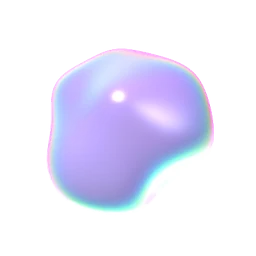
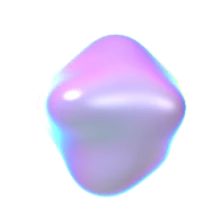
Мося: 24 кадра, плавное перетекание + колыхание; «Поделиться» — карточка как в прототипе; событие: «Идут» выше, «Маршрут/Скопировать» над картой, карта крупнее, без «Точка на карте»; профиль: цветные иконки интересов, белая «Позвать», фото в оригинале, без цифры; «Быстрый доступ» — новая иконка
Claude-Session: https://claude.ai/code/session_013QFP65mVRgYiznxHFkn3DH

Changed region(s): [[0.1562, 0.125, 0.8438, 0.9062]]

diff --git a/app/(app)/events/[id]/page.tsx b/app/(app)/events/[id]/page.tsx
@@ -76,6 +76,20 @@ interface EventDetailsPageProps {
 }
 
 
+/** «Точка на карте» — служебное имя метки, людям его не показываем. */
+function realPlace(n: string | null | undefined): string | null {
+  const t = (n ?? "").trim();
+  return t && t !== "Точка на карте" ? t : null;
+}
+/** Название + адрес без повторов («Максимилианс, …, Максимилианс» → один раз). */
+function placeLine(name: string | null | undefined, address: string | null | undefined): string {
+  const n = realPlace(name);
+  const a = (address ?? "").trim();
+  if (!n) return a;
+  if (!a) return n;
+  return a.toLowerCase().includes(n.toLowerCase()) ? a : `${n}, ${a}`;
+}
+
 export default function EventDetailsPage({ params }: EventDetailsPageProps) {
   const { id: eventId } = params;
   const router = useRouter();
@@ -657,83 +671,6 @@ export default function EventDetailsPage({ params }: EventDetailsPageProps) {
               </Link>
             ))}
 
-          {event.description && (
-            <div className="k-blk k-gd">
-              <b className="k-bh">{event.isBusiness ? "О событии" : "О встрече"}</b>
-              <p style={{ whiteSpace: "pre-line" }}>{event.description}</p>
-            </div>
-          )}
-
-          <div className="k-blk k-gd" style={{ padding: 0, overflow: "hidden" }}>
-            {hid ? (
-              <div style={{ padding: "14px 16px" }}>
-                <b className="k-bh">Место откроется после одобрения</b>
-                <p style={{ margin: "2px 0 0" }}>Организатор и точный адрес видны только принятым участникам</p>
-              </div>
-            ) : (
-              <>
-                <div style={{ padding: "14px 16px 10px" }}>
-                  <b className="k-bh">Место</b>
-                  <p style={{ margin: "2px 0 0" }}>
-                    {[event.placeName, event.address].filter(Boolean).join(", ") || "Место уточняется"}
-                  </p>
-                </div>
-                <div className="k-mapbox" style={{ display: "block", width: "100%", margin: 0, borderRadius: 0, height: 170, position: "relative" }}>
-                  {event.latitude != null && event.longitude != null ? (
-                    <EventPlaceMap
-                      fill
-                      latitude={event.latitude}
-                      longitude={event.longitude}
-                      markerSrc={markerIconFor({ isBusiness: event.isBusiness, category: event.category })}
-                      placeName={event.placeName}
-                      fallbackSrc={icon}
-                      markerEvent={{
-                        id: event.id,
-                        title: event.title,
-                        eventDate: event.eventDate,
-                        eventTime: event.eventTime,
-                        latitude: event.latitude,
-                        longitude: event.longitude,
-                        placeName: event.placeName,
-                        address: event.address,
-                        seatsLeft: event.seatsTotal - event.seatsTaken,
-                        category: event.category,
-                        isBusiness: event.isBusiness,
-                        markerPhoto: event.isBusiness
-                          ? event.photoUrl ?? event.organizer?.avatarUrl ?? "/brand/covers/business.webp"
-                          : event.organizer?.avatarUrl ?? null,
-                      }}
-                      onOpen={() => router.push(`/map?${event.isBusiness ? "business=only&" : ""}focus=${event.id}`)}
-                    />
-                  ) : (
-                    <MiniMap />
-                  )}
-                </div>
-                <span className="k-mapact">
-                    {event.latitude != null && event.longitude != null && (
-                      <button className="k-chip k-gw k-pr" onClick={() => openRoute(event.latitude!, event.longitude!)}>
-                        <KI n="map" />
-                        Маршрут
-                      </button>
-                    )}
-                    {event.address && (
-                      <button
-                        className="k-chip k-gw k-pr"
-                        onClick={() =>
-                          navigator.clipboard?.writeText(`${event.placeName ? event.placeName + ", " : ""}${event.address}`).then(
-                            () => flash("Адрес скопирован"),
-                            () => {}
-                          )
-                        }
-                      >
-                        Скопировать адрес
-                      </button>
-                    )}
-                </span>
-              </>
-            )}
-          </div>
-
           <div className="k-blk k-gd">
             <div className="k-bh2">
               <b className="k-bh">
@@ -777,6 +714,83 @@ export default function EventDetailsPage({ params }: EventDetailsPageProps) {
                 </button>
               )}
             </div>
+          </div>
+
+          {event.description && (
+            <div className="k-blk k-gd">
+              <b className="k-bh">{event.isBusiness ? "О событии" : "О встрече"}</b>
+              <p style={{ whiteSpace: "pre-line" }}>{event.description}</p>
+            </div>
+          )}
+
+          <div className="k-blk k-gd" style={{ padding: 0, overflow: "hidden" }}>
+            {hid ? (
+              <div style={{ padding: "14px 16px" }}>
+                <b className="k-bh">Место откроется после одобрения</b>
+                <p style={{ margin: "2px 0 0" }}>Организатор и точный адрес видны только принятым участникам</p>
+              </div>
+            ) : (
+              <>
+                <div style={{ padding: "14px 16px 10px" }}>
+                  <b className="k-bh">Место</b>
+                  <p style={{ margin: "2px 0 0" }}>
+                    {placeLine(event.placeName, event.address) || "Место уточняется"}
+                  </p>
+                </div>
+                <span className="k-mapact">
+                    {event.latitude != null && event.longitude != null && (
+                      <button className="k-chip k-gw k-pr" onClick={() => openRoute(event.latitude!, event.longitude!)}>
+                        <KI n="map" />
+                        Маршрут
+                      </button>
+                    )}
+                    {event.address && (
+                      <button
+                        className="k-chip k-gw k-pr"
+                        onClick={() =>
+                          navigator.clipboard?.writeText(placeLine(event.placeName, event.address)).then(
+                            () => flash("Адрес скопирован"),
+                            () => {}
+                          )
+                        }
+                      >
+                        Скопировать адрес
+                      </button>
+                    )}
+                </span>
+                <div className="k-mapbox" style={{ display: "block", width: "100%", margin: 0, borderRadius: 0, height: 240, position: "relative" }}>
+                  {event.latitude != null && event.longitude != null ? (
+                    <EventPlaceMap
+                      fill
+                      latitude={event.latitude}
+                      longitude={event.longitude}
+                      markerSrc={markerIconFor({ isBusiness: event.isBusiness, category: event.category })}
+                      placeName={event.placeName}
+                      fallbackSrc={icon}
+                      markerEvent={{
+                        id: event.id,
+                        title: event.title,
+                        eventDate: event.eventDate,
+                        eventTime: event.eventTime,
+                        latitude: event.latitude,
+                        longitude: event.longitude,
+                        placeName: event.placeName,
+                        address: event.address,
+                        seatsLeft: event.seatsTotal - event.seatsTaken,
+                        category: event.category,
+                        isBusiness: event.isBusiness,
+                        markerPhoto: event.isBusiness
+                          ? event.photoUrl ?? event.organizer?.avatarUrl ?? "/brand/covers/business.webp"
+                          : event.organizer?.avatarUrl ?? null,
+                      }}
+                      onOpen={() => router.push(`/map?${event.isBusiness ? "business=only&" : ""}focus=${event.id}`)}
+                    />
+                  ) : (
+                    <MiniMap />
+                  )}
+                </div>
+              </>
+            )}
           </div>
 
           {invitePending && (
@@ -1045,7 +1059,7 @@ export default function EventDetailsPage({ params }: EventDetailsPageProps) {
           }}
         />
       )}
-      <ShareSheet open={shareOpen} onClose={() => setShareOpen(false)} eventId={event.id} title={event.title} when={shareWhen} version={`${event.photoUrl ?? ""}|${event.placeName ?? ""}|${event.seatsTaken}`} photo={event.photoUrl} chip={`${catName} · ${shareWhen}`} meta={[event.isAnonymous ? null : event.placeName, `${event.seatsTaken} из ${event.seatsTotal}`].filter(Boolean).join(" · ")} />
+      <ShareSheet open={shareOpen} onClose={() => setShareOpen(false)} eventId={event.id} title={event.title} when={shareWhen} version={`${event.photoUrl ?? ""}|${event.placeName ?? ""}|${event.seatsTaken}`} photo={event.photoUrl} chip={`${catName} · ${shareWhen}`} meta={[event.isAnonymous ? null : realPlace(event.placeName), `${event.seatsTaken} из ${event.seatsTotal}`].filter(Boolean).join(" · ")} />
 
       <Sheet open={anonOpen} onClose={() => setAnonOpen(false)}>
         <div className="anonbox">

diff --git a/app/k26-app.css b/app/k26-app.css
@@ -251,7 +251,7 @@
 .P .pr.pr2 .sheet2{min-height:0!important}
 /* Профиль человека: фото крупнее, плашка «О себе» начинается ниже; иконки интересов на тёмном — светлые. */
 .P .pr.pr2:not(.deck) .gal{height:min(82vh,700px)!important}
-.P .pr.pr2 .sheet2 .itag img{filter:invert(1) brightness(2);opacity:.9}
+.P .pr.pr2 .sheet2 .itag img{filter:none;opacity:1;background:#fff;border-radius:50%;padding:3px;box-sizing:border-box}
 /* 06.11: карта в создании видна сразу; ⤢ — на весь экран (поверх всего, через body) */
 .K .k-mapprev{position:relative;overflow:hidden;border-radius:24px;padding:0}
 .K .k-mapprev .rounded-card{border-radius:24px}
@@ -265,9 +265,23 @@
 .K .k-ev .k-evfade{position:absolute;left:0;right:0;bottom:0;height:150px;z-index:29;pointer-events:none;background:linear-gradient(180deg,rgba(23,20,31,0) 0%,rgba(23,20,31,.9) 50%,#17141F 80%)}
 /* 06.11: живой Мося без рывков — кадры перетекают через opacity (видеокарта) */
 .k-crl{overflow:visible}
-.k-crl>img{position:absolute;inset:0;width:100%;height:100%;object-fit:contain;display:block;opacity:0;will-change:opacity;animation:k-mf 6s linear infinite;pointer-events:none}
+.k-crl>img{position:absolute;inset:0;width:100%;height:100%;object-fit:contain;display:block;opacity:0;will-change:opacity;animation:k-mf 12s linear infinite;pointer-events:none}
 .k-crl>img.k-crl0{opacity:1;animation:none}
 .k-crl>img.k-crlz{animation-name:k-mfz}
-@keyframes k-mf{0%{opacity:0}8.333%{opacity:1}16.66%{opacity:1}16.67%{opacity:0}100%{opacity:0}}
-@keyframes k-mfz{0%{opacity:0}8.333%{opacity:1}16.66%{opacity:0}100%{opacity:0}}
+@keyframes k-mf{0%{opacity:0}4.1667%{opacity:1}8.33%{opacity:1}8.34%{opacity:0}100%{opacity:0}}
+@keyframes k-mfz{0%{opacity:0}4.1667%{opacity:1}8.333%{opacity:0}100%{opacity:0}}
 @media (prefers-reduced-motion: reduce){.k-crl>img{animation:none}}
+/* 06.11: на странице события «Маршрут / Скопировать» над картой */
+.K .k-ev .k-mapact{padding:0 12px 12px}
+/* 06.11: карточка «Поделиться» как в прототипе — плашка в одну строку, название по длине, текст на фото читается */
+.K .k-story .k-schip{max-width:calc(100% - 28px);white-space:nowrap;overflow:hidden;text-overflow:ellipsis;-webkit-backdrop-filter:none;backdrop-filter:none;background:rgba(23,20,31,.35)}
+.K .k-story::after{background:linear-gradient(180deg,rgba(0,0,0,.45),rgba(0,0,0,.1) 26%,rgba(10,8,20,.55) 52%,rgba(10,8,20,.92))}
+.K .k-story .k-stt{max-height:96px;overflow:hidden}
+.K .k-story .k-stt.k-stt2{font-size:21px}
+.K .k-story .k-stt.k-stt3{font-size:17px;line-height:1.15!important;letter-spacing:-.01em}
+.K .k-story .k-sme{white-space:nowrap;overflow:hidden;text-overflow:ellipsis}
+.k-crl{animation:k-wob 4.5s ease-in-out infinite;transform-origin:50% 62%;will-change:transform}
+@keyframes k-wob{0%,100%{transform:scale(1,1) rotate(0)}25%{transform:scale(1.025,.975) rotate(-1.5deg)}50%{transform:scale(.985,1.02) rotate(.8deg)}75%{transform:scale(1.015,.985) rotate(1.4deg)}}
+@media (prefers-reduced-motion: reduce){.k-crl{animation:none}}
+.P .nav26 .k-crl{animation:k-wob 4.5s ease-in-out infinite!important}
+.P .pr .pinv.btn{background:#fff!important;color:#17141F!important;box-shadow:0 10px 26px rgba(0,0,0,.25)}

diff --git a/components/people/PersonView.tsx b/components/people/PersonView.tsx
@@ -228,7 +228,7 @@ export function PersonView({ id, initial, deck }: { id: string; initial?: Person
     for (const src of person?.photos ?? []) {
       const im = new Image();
       im.decoding = "async";
-      im.src = photoThumb(src, 420, true);
+      im.src = photoThumb(src, 420);
     }
   }, [person?.photos]);
 
@@ -397,7 +397,7 @@ export function PersonView({ id, initial, deck }: { id: string; initial?: Person
         {photos.length ? (
           photos.map((src, i) => (
             // eslint-disable-next-line @next/next/no-img-element
-            <img key={src} src={photoThumb(src, 420, true)} className={i === gi ? "on" : ""} alt="" decoding="async" />
+            <img key={src} src={photoThumb(src, 420)} className={i === gi ? "on" : ""} alt="" decoding="async" />
           ))
         ) : (
           <div style={{ position: "absolute", inset: 0, background: "var(--g)", display: "grid", placeItems: "center" }}>
@@ -584,7 +584,6 @@ export function PersonView({ id, initial, deck }: { id: string; initial?: Person
             <div className="blk">
               <div className="blk-h">
                 <b>Ближайшие события</b>
-                <span>{follow.events.length}</span>
               </div>
               <div className="fevs">
                 {follow.events.map((e) => (
@@ -647,7 +646,7 @@ export function PersonView({ id, initial, deck }: { id: string; initial?: Person
             <Ic n="bell" />
           </button>
         )}
-        <button className="btn v" onClick={openInvite}>
+        <button className="btn v pinv" onClick={openInvite}>
           <Ic n="cal" />
           <span>Позвать на встречу</span>
         </button>

diff --git a/components/brand/Creature.tsx b/components/brand/Creature.tsx
@@ -231,8 +231,8 @@ function unregister(e: Entry) {
  * Живой WebGL-рендер (выше) на телефонах тормозил: каждый кадр копировался
  * во все холсты на экране. Оставлен в файле на будущее, сейчас не используется.
  */
-const FRAMES = 12;
-const STEP = 0.5; // с на кадр — полный круг 6 с, как в шейдере
+const FRAMES = 24;
+const STEP = 0.5; // с на кадр — полный круг 12 с: соседние кадры близки, перетекание без скачков
 
 export function Creature({ size: cssSize, variant = "p", className }: { size?: number; variant?: Variant; className?: string }) {
   const st = cssSize ? { width: cssSize, height: cssSize } : { width: "100%", height: "100%", maxWidth: "100%", maxHeight: "100%" };

diff --git a/components/telegram/HomeScreenAsk.tsx b/components/telegram/HomeScreenAsk.tsx
@@ -107,7 +107,7 @@ export function HomeScreenAsk() {
         </p>
         <div className="gl" style={{ display: "flex", alignItems: "center", gap: 14, padding: 12, borderRadius: 24 }}>
           {/* eslint-disable-next-line @next/next/no-img-element */}
-          <img src="/brand/logo/app-icon.png" alt="" width={56} height={56} style={{ borderRadius: 14, flex: "none" }} />
+          <img src="/brand/logo/appicon-new.webp" alt="" width={56} height={56} style={{ borderRadius: 14, flex: "none" }} />
           <span style={{ display: "grid", gap: 2 }}>
             <b style={{ fontWeight: 600, fontSize: 16 }}>Место</b>
             <small className="muted" style={{ fontSize: 13 }}>Найди компанию на сегодня</small>

diff --git a/components/proto/ShareSheet.tsx b/components/proto/ShareSheet.tsx
@@ -201,7 +201,7 @@ export function ShareSheet({
               {/* eslint-disable-next-line @next/next/no-img-element */}
               <img className="k-swm" src="/brand/auth/wordmark-white.svg" alt="" />
               <span className="k-schip">{chip ?? when}</span>
-              <span className="k-stt">{titleTwo(title)}</span>
+              <span className={`k-stt ${title.trim().length > 40 ? "k-stt3" : title.trim().length > 22 ? "k-stt2" : ""}`}>{titleTwo(title)}</span>
               {meta && <span className="k-sme">{meta}</span>}
               <span className="k-scta">Пойти со мной →</span>
             </div>
